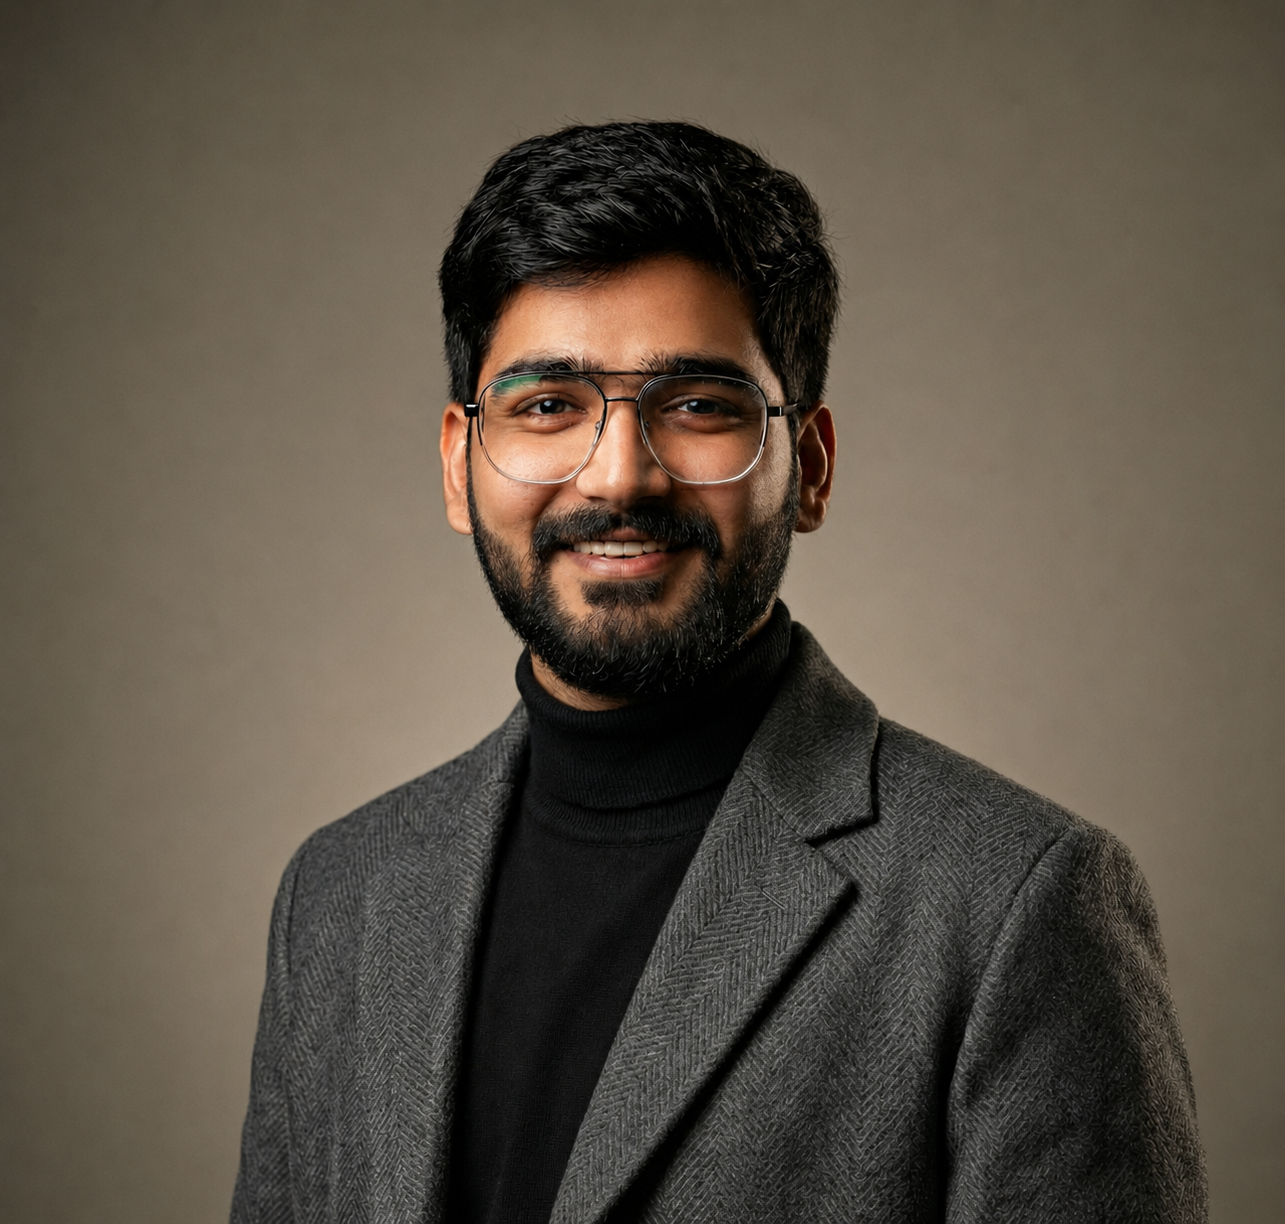
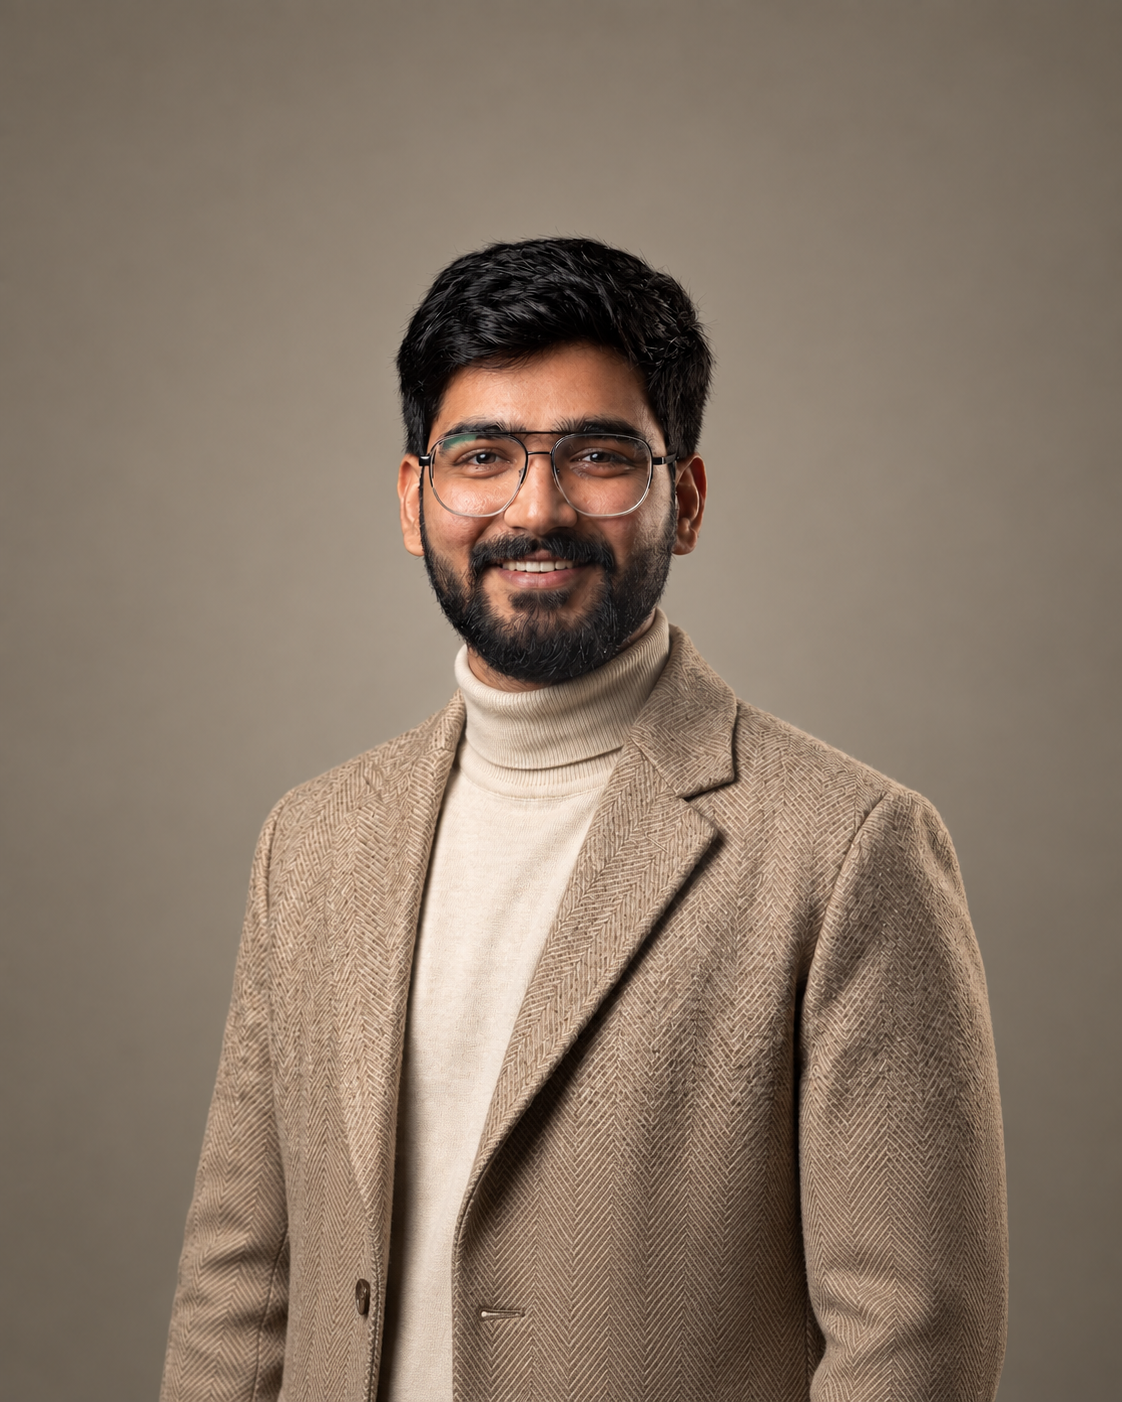
feat: add structured data, robots, and sitemap functionality; update layout and styles

diff --git a/app/layout.tsx b/app/layout.tsx
@@ -1,10 +1,12 @@
 import type { Metadata } from "next";
 import "./globals.css";
+import "./components/brand-fixes.css";
 import ChatWidget from "./components/ChatWidget";
 import CleanSectionLinks from "./components/CleanSectionLinks";
+import StructuredData from "./components/StructuredData";
 
-export const metadata: Metadata = { title: "Shwetanshu Bhatt — CEO, Sifaka Labs", description: "The personal site of Shwetanshu Bhatt, CEO and founder of Sifaka Labs." };
+export const metadata: Metadata = { metadataBase: new URL("https://ceo.sifakalabs.in"), title: "Shwetanshu Bhatt — CEO & Co-Founder, Sifaka Labs", description: "The personal website of Shwetanshu Bhatt, CEO and co-founder of Sifaka Labs.", keywords: ["Shwetanshu Bhatt", "Sifaka Labs", "CEO", "co-founder", "technology products", "artificial intelligence", "automation"], alternates: { canonical: "/" }, openGraph: { type: "website", url: "https://ceo.sifakalabs.in/", title: "Shwetanshu Bhatt — CEO & Co-Founder, Sifaka Labs", description: "The personal website of Shwetanshu Bhatt, CEO and co-founder of Sifaka Labs.", siteName: "Shwetanshu Bhatt", locale: "en_IN", images: [{ url: "/shwetanshu.png", width: 1285, height: 1224, alt: "Shwetanshu Bhatt, CEO and co-founder of Sifaka Labs" }] }, twitter: { card: "summary_large_image", title: "Shwetanshu Bhatt — CEO & Co-Founder, Sifaka Labs", description: "The personal website of Shwetanshu Bhatt, CEO and co-founder of Sifaka Labs.", images: ["/shwetanshu.png"] }, robots: { index: true, follow: true, googleBot: { index: true, follow: true, "max-image-preview": "large", "max-snippet": -1, "max-video-preview": -1 } } };
 
 export default function RootLayout({ children }: Readonly<{ children: React.ReactNode }>) {
-  return <html lang="en"><body><CleanSectionLinks />{children}<ChatWidget /></body></html>;
+ return <html lang="en"><body><CleanSectionLinks /><StructuredData />{children}<ChatWidget /></body></html>;
 }

diff --git a/app/components/StructuredData.tsx b/app/components/StructuredData.tsx
@@ -1,0 +1,10 @@
+export default function StructuredData() {
+  const siteUrl = "https://ceo.sifakalabs.in";
+  const data = { "@context": "https://schema.org", "@graph": [
+    { "@type": "WebSite", "@id": `${siteUrl}/#website`, url: `${siteUrl}/`, name: "Shwetanshu Bhatt", inLanguage: "en-IN" },
+    { "@type": "WebPage", "@id": `${siteUrl}/#webpage`, url: `${siteUrl}/`, name: "Shwetanshu Bhatt — CEO & Co-Founder, Sifaka Labs", isPartOf: { "@id": `${siteUrl}/#website` }, about: { "@id": `${siteUrl}/#person` }, inLanguage: "en-IN" },
+    { "@type": "Person", "@id": `${siteUrl}/#person`, name: "Shwetanshu Bhatt", jobTitle: "CEO and Co-Founder", url: `${siteUrl}/`, image: `${siteUrl}/shwetanshu.png`, email: "ceo@sifakalabs.in", worksFor: { "@id": `${siteUrl}/#organization` }, knowsAbout: ["technology products", "artificial intelligence", "automation", "software"] },
+    { "@type": "Organization", "@id": `${siteUrl}/#organization`, name: "Sifaka Labs", url: "https://sifakalabs.in/", email: "ceo@sifakalabs.in", founder: [{ "@type": "Person", name: "Shwetanshu Bhatt" }, { "@type": "Person", name: "Sudhanshu Thapa" }, { "@type": "Person", name: "Aditya Dimri" }], description: "A technology company building products across software, artificial intelligence, automation, and future systems." },
+  ] };
+  return <script type="application/ld+json" dangerouslySetInnerHTML={{ __html: JSON.stringify(data) }} />;
+}

diff --git a/app/components/brand-fixes.css b/app/components/brand-fixes.css
@@ -1,0 +1,13 @@
+.lab-word span {
+  display: block;
+  margin: 14px 0 0 8px;
+  font-family: 'DM Mono', monospace;
+  font-size: clamp(12px, 1.1vw, 17px);
+  font-weight: 500;
+  letter-spacing: .48em;
+  line-height: 1;
+}
+
+@media (max-width: 650px) {
+  .lab-word span { margin-top: 9px; font-size: 10px; letter-spacing: .38em; }
+}

diff --git a/app/robots.ts b/app/robots.ts
@@ -1,0 +1,3 @@
+import type { MetadataRoute } from "next";
+
+export default function robots(): MetadataRoute.Robots { return { rules: { userAgent: "*", allow: "/", disallow: ["/api/", "/_next/"] }, sitemap: "https://ceo.sifakalabs.in/sitemap.xml" }; }

diff --git a/app/sitemap.ts b/app/sitemap.ts
@@ -1,0 +1,3 @@
+import type { MetadataRoute } from "next";
+
+export default function sitemap(): MetadataRoute.Sitemap { return [{ url: "https://ceo.sifakalabs.in/", changeFrequency: "monthly", priority: 1 }]; }
